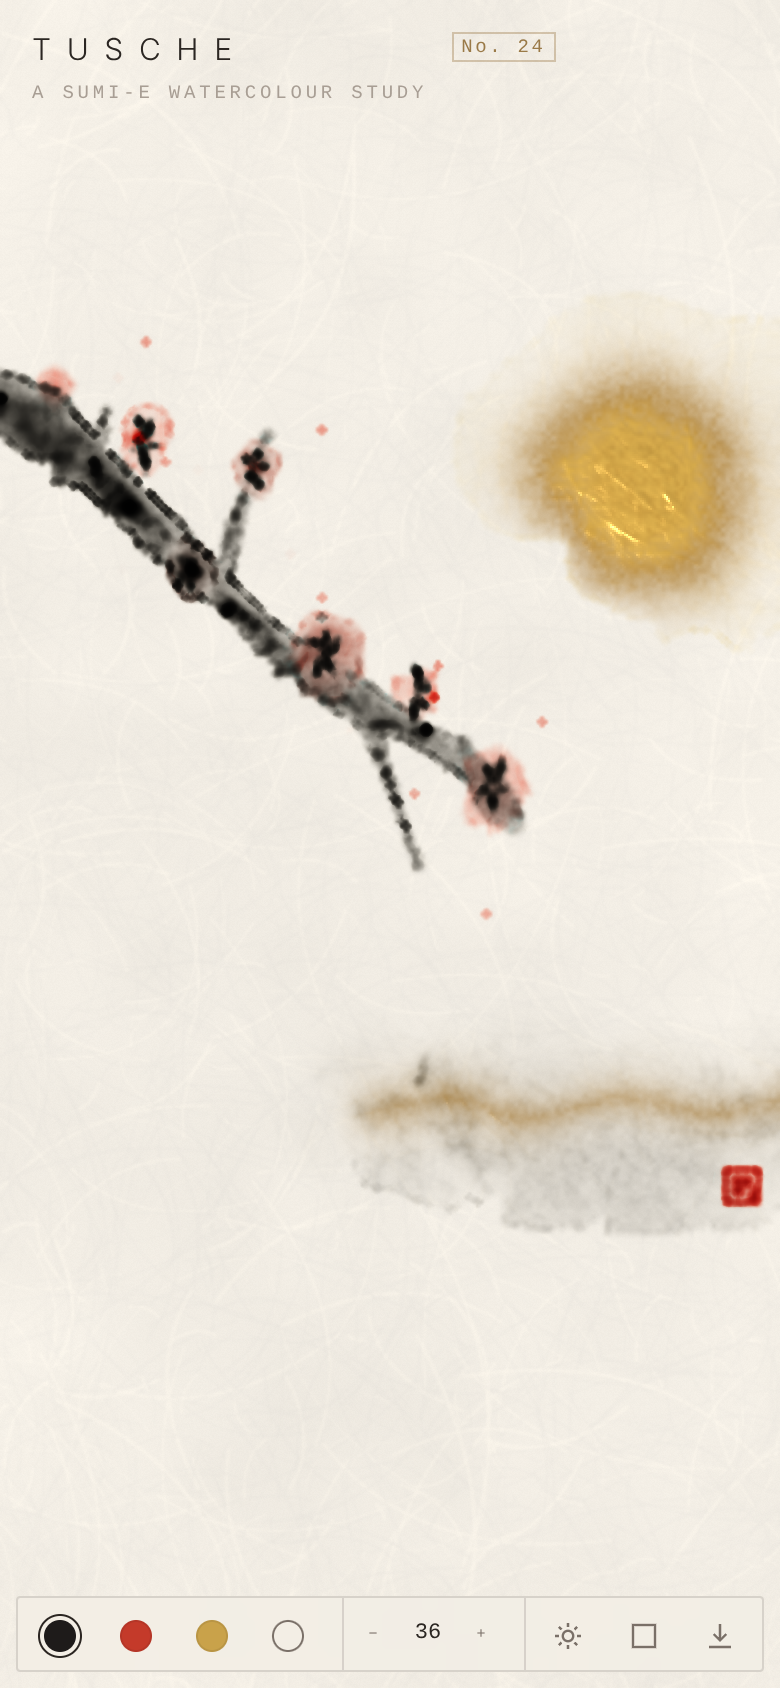
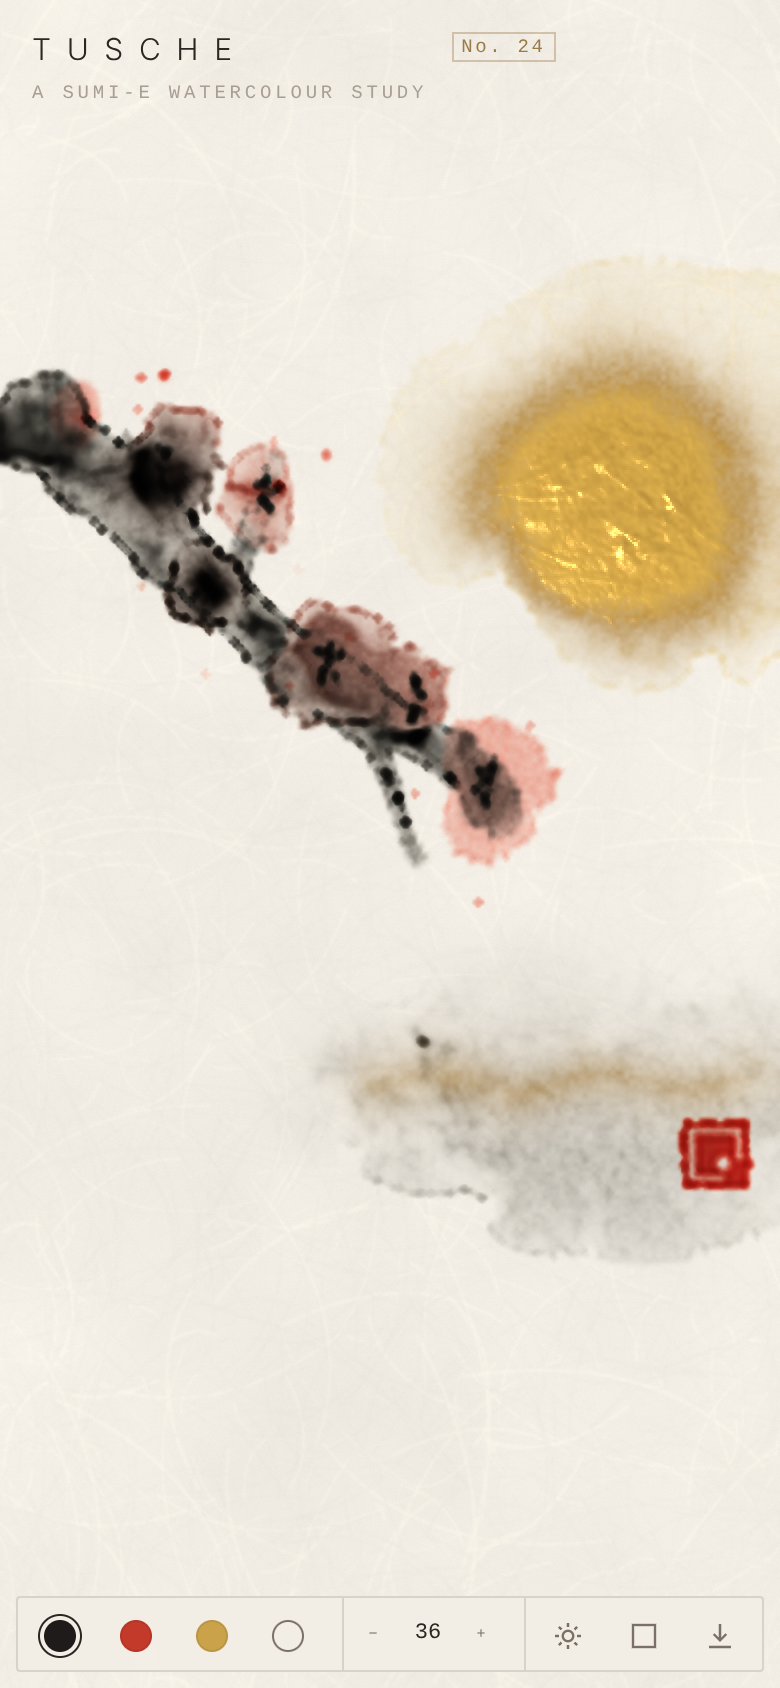
Tusche: phone-scale opening keeps painterly brush sizes and fits the frame; final screenshots; tests 8/8
Claude-Session: https://claude.ai/code/session_01SSkA1b3UV4eDRsiMoVk936

diff --git a/tusche/_source/src/index.html b/tusche/_source/src/index.html
@@ -671,7 +671,7 @@ let demo = null;
 function compositionBox() {
   const a = 16 / 10; let w = cssW, h = cssW / a;
   if (h > cssH) { h = cssH; w = h * a; }
-  if (cssW < 720) { w = cssW * 1.05; h = Math.min(cssH * .8, w / .8); }
+  if (cssW < 720) { w = cssW * .97; h = Math.min(cssH * .8, w / .8); }
   return { x: (cssW - w) / 2, y: (cssH - h) / 2 - (cssW < 720 ? cssH * .04 : 0), w, h };
 }
 function buildDemo() {
@@ -751,12 +751,12 @@ function demoStep(dt) {
   dryBtn = a.kind === 'dry';
   if (a.kind === 'wait' || a.kind === 'dry') return;
   const B = demo.box, P2 = p => [B.x + p[0] * B.w, B.y + p[1] * B.h];
-  if (a.kind === 'seal') { if (!a.done) { a.done = true; const p = P2(a.pts[0]); seal(p[0], p[1], a.size * B.w / 1280); } return; }
+  if (a.kind === 'seal') { if (!a.done) { a.done = true; const p = P2(a.pts[0]); seal(p[0], p[1], a.size * Math.max(B.w / 1280, .6)); } return; }
   const f = a.kind === 'hold' ? 0 : (ease[a.ease || 'inout'])(Math.min(1, demo.t / a.dur));
   const [x, y] = P2(catmull(a.pts, f));
   const prs = a.pen ? a.pen[0] + (a.pen[1] - a.pen[0]) * f : .5;
   if (!ptr.demo) {
-    ink = a.ink; size = Math.max(3, a.size * B.w / 1280); updUI();
+    ink = a.ink; size = Math.max(3, a.size * Math.max(B.w / 1280, .6)); updUI();   // phones: keep marks painterly
     startStroke(x, y, a.ink === 'water', false, prs);
     ptr.demo = true; ptr.demoPen = !!a.pen; ptr.wMul = a.wMul || 1; ptr.kMul = a.kMul || 1;
   } else { ptr.q.push([x, y, prs]); ptr.x = x; ptr.y = y; ptr.pressure = prs; }
